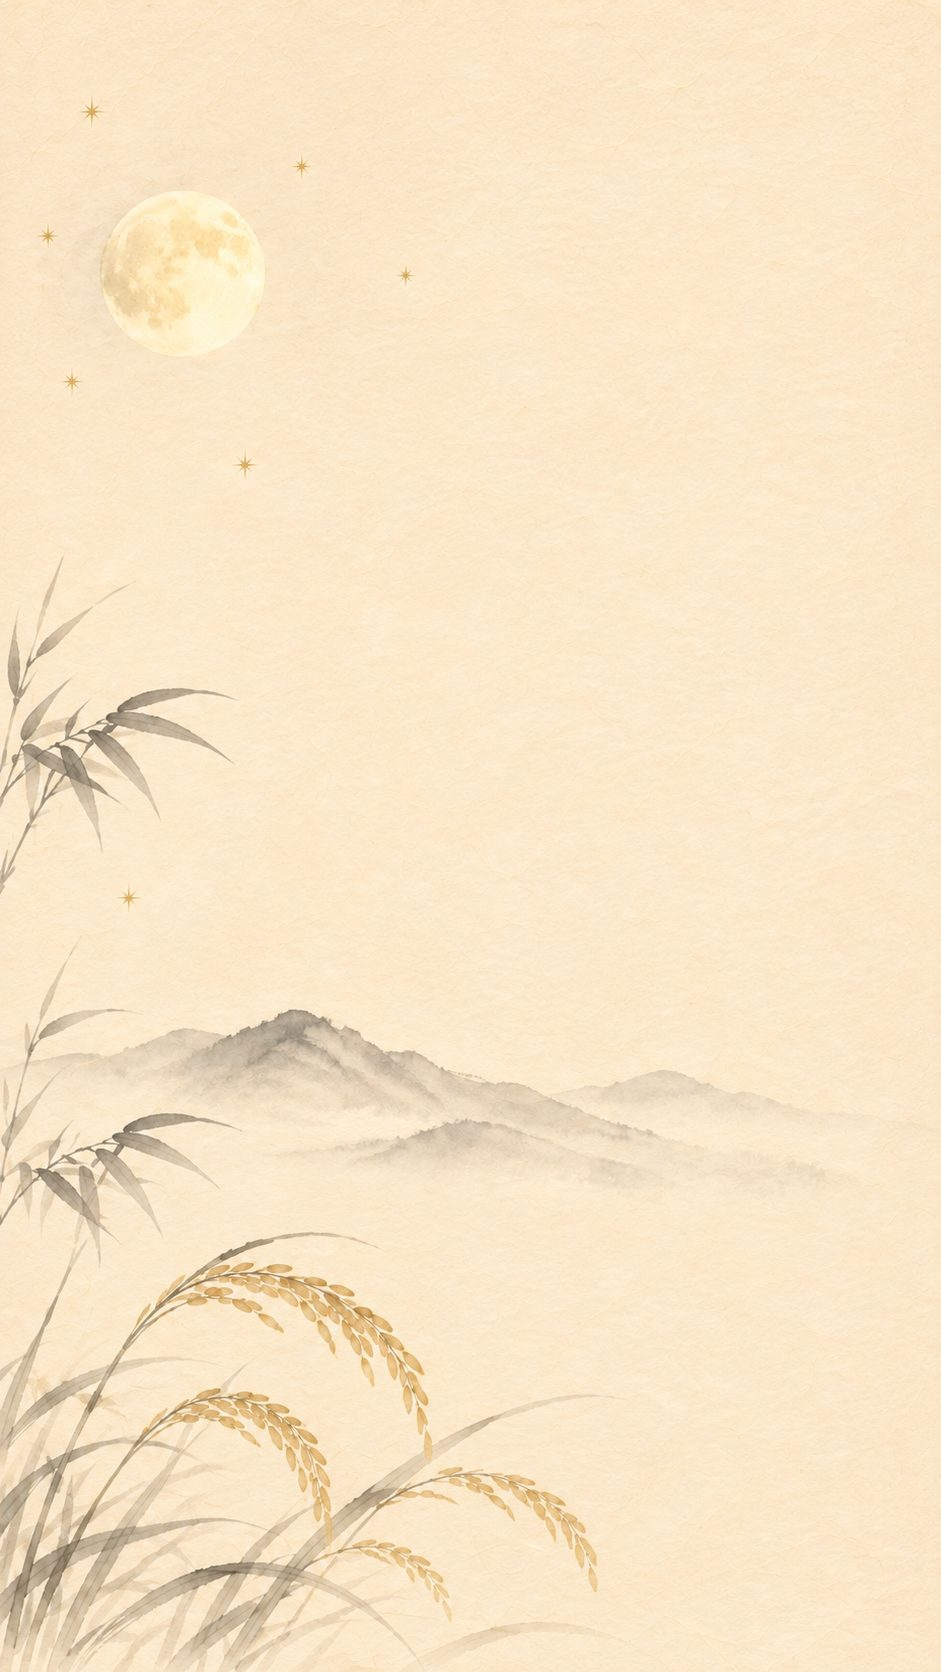
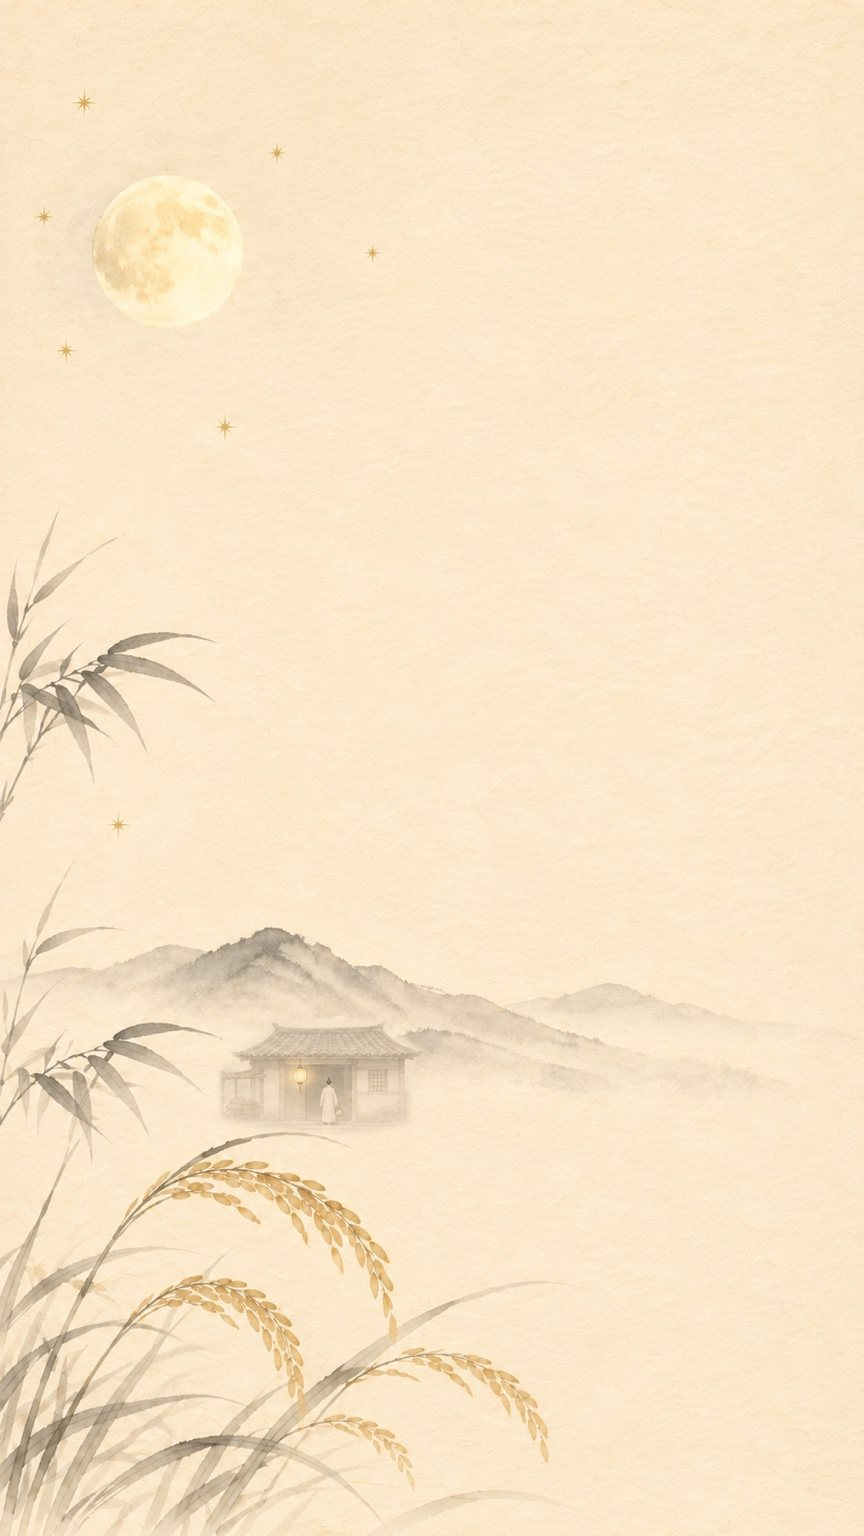
主視覺加上山腳的小驛站與掌櫃 (#9)
* Build the 青石驛 portal

A single page that introduces and links the five sites, with a wide
hero illustration on desktop and a tall one on phones, a short essay
weaving the five names together, a card for each site with its home
screen icon, a share image for link previews, and its own icon.

Claude-Session: https://claude.ai/code/session_01DWRUU4NfxA6xwrtQRbGZkE

* 主畫面圖示改為橫式「青石」

Claude-Session: https://claude.ai/code/session_01DWRUU4NfxA6xwrtQRbGZkE

* 開場與說明文字改為逐句分行

Claude-Session: https://claude.ai/code/session_01DWRUU4NfxA6xwrtQRbGZkE

* 關閉 iPhone 自動把數字當電話連結

Claude-Session: https://claude.ai/code/session_01DWRUU4NfxA6xwrtQRbGZkE

* 頁尾顯示進站人次

Claude-Session: https://claude.ai/code/session_01DWRUU4NfxA6xwrtQRbGZkE

* 主畫面圖示換成水墨「青石」

Claude-Session: https://claude.ai/code/session_01DWRUU4NfxA6xwrtQRbGZkE

* 版權文字註明古籍原文屬公有領域

Claude-Session: https://claude.ai/code/session_01DWRUU4NfxA6xwrtQRbGZkE

* 主視覺加上「到後院歇息」連結

Claude-Session: https://claude.ai/code/session_01DWRUU4NfxA6xwrtQRbGZkE

* 青石驛改為六條小徑，加入月杯

Claude-Session: https://claude.ai/code/session_01DWRUU4NfxA6xwrtQRbGZkE

* 主視覺加上山腳的小驛站與掌櫃

Claude-Session: https://claude.ai/code/session_01DWRUU4NfxA6xwrtQRbGZkE

---------

Changed region(s): [[0.25, 0.6562, 0.4688, 0.75]]

diff --git a/docs/style.css b/docs/style.css
@@ -9,7 +9,7 @@ a{color:inherit}
 :focus-visible{outline:3px solid var(--stone);outline-offset:3px}
 
 /* 主視覺：電腦用橫幅，手機用直幅 */
-.hero{min-height:min(100vh,56.25vw);background:var(--paper) url(img/hero-wide.jpg) center/cover no-repeat;display:flex;align-items:center;justify-content:flex-end;padding:48px max(6vw,24px)}
+.hero{min-height:min(100vh,56.25vw);background:var(--paper) url(img/hero-wide.jpg?v=2) center/cover no-repeat;display:flex;align-items:center;justify-content:flex-end;padding:48px max(6vw,24px)}
 .hero-text{width:min(460px,44vw);text-align:center}
 .kicker{margin:0 0 6px;font-size:15px;letter-spacing:6px;color:var(--gold)}
 h1{margin:0;font-family:var(--serif);font-weight:600;font-size:clamp(48px,7vw,88px);letter-spacing:.32em;text-indent:.32em;color:var(--stone);line-height:1.2}
@@ -59,7 +59,7 @@ footer{max-width:880px;margin:48px auto 0;padding:24px 24px 40px;border-top:1px 
 
 @media(max-width:700px){
   body{font-size:16px}
-  .hero{min-height:100svh;background-image:url(img/hero-tall.jpg);background-position:center bottom;align-items:flex-start;justify-content:center;padding:14svh 16px 40px}
+  .hero{min-height:100svh;background-image:url(img/hero-tall.jpg?v=2);background-position:center bottom;align-items:flex-start;justify-content:center;padding:14svh 16px 40px}
   .hero-text{width:100%;max-width:360px;padding-left:22%}
   .lead{margin:14px 0 22px;font-size:min(17px,4.4vw);letter-spacing:.08em}
   .note{font-size:min(14px,3.6vw)}

diff --git a/docs/index.html b/docs/index.html
@@ -5,7 +5,7 @@
 <meta name="theme-color" content="#f6e8cf">
 <meta property="og:type" content="website"><meta property="og:title" content="青石驛・旅人的六條小徑"><meta property="og:description" content="拾穗、一念、觀易、紫垣、四時、月杯，六條小徑，各通往一處安靜的所在。"><meta property="og:url" content="https://imqingstone.github.io/"><meta property="og:image" content="https://imqingstone.github.io/img/og.jpg"><meta property="og:image:width" content="1200"><meta property="og:image:height" content="630"><meta name="twitter:card" content="summary_large_image">
 <link rel="apple-touch-icon" href="apple-touch-icon.png"><meta name="apple-mobile-web-app-title" content="青石驛"><link rel="icon" type="image/png" href="icon-192.png">
-<link rel="preload" as="image" href="img/hero-tall.jpg" media="(max-width: 700px)"><link rel="preload" as="image" href="img/hero-wide.jpg" media="(min-width: 701px)">
+<link rel="preload" as="image" href="img/hero-tall.jpg?v=2" media="(max-width: 700px)"><link rel="preload" as="image" href="img/hero-wide.jpg?v=2" media="(min-width: 701px)">
 <link rel="stylesheet" href="style.css">
 </head>
 <body>
